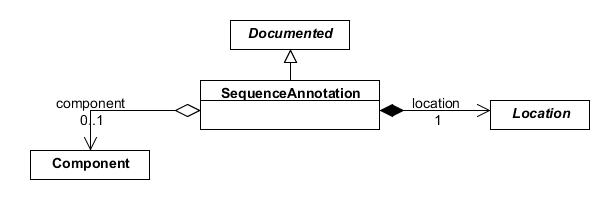
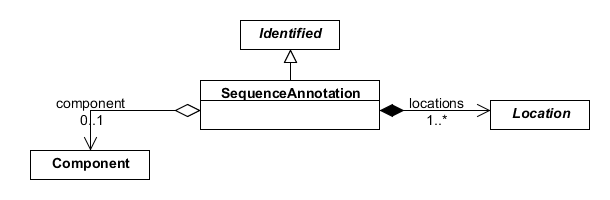
Update on Overleaf.

Changed region(s): [[0.3738, 0.09, 0.5607, 0.27], [0.6541, 0.48, 0.7787, 0.54], [0.6852, 0.57, 0.7475, 0.63]]

diff --git a/model.tex b/model.tex
@@ -1,6 +1,9 @@
 % -----------------------------------------------------------------------------
 \section{SBOL Data Model}
 % -----------------------------------------------------------------------------
+
+\Ctodo{All captions need full explanations.}
+
 In this section, we describe the types of biological design data that can belong to an SBOL document and the relationships between these data types. The SBOL data model is specified using Unified Modeling Language (UML) 2.0 diagrams \href{http://www.omg.org/spec/UML/2.0/}{(OMG 2005)}. Subsections \ref{sec:umldiagrams}, \ref{sec:nameconventions}, \ref{sec:datatypes} review the basics of UML diagrams and explain the naming conventions and generic data types used in this specification. The remaining sections then describe the SBOL data model in detail. Complete SBOL examples and best practices when using the standard can be found in \ref{sec:examples} and \ref{sec:bestpractices}, respectively. 
 
 \subsection{Understanding the UML Diagrams}
@@ -111,28 +114,6 @@ If the \sbol{version} property is used, then it is RECOMMENDED that version numb
 This convention represents versions as sequences of numbers and qualifiers separated by the characters {\tt .} and {\tt -} and compared in lexicographical order (for example, 1 < 1.3.1 < 2.0-beta).
 For a full explanation, see the linked resources.
 
-\subsubsection*{Serialization}
-
-No complete serialization is defined for \sbol{Identified}, since this
-class is only used indirectly through its child classes.  Any such
-child class, however, has the following form for serializing
-properties inherited from \sbol{Identified}, where CLASS\_NAME is
-replaced by the name of the class:
-
-\Ctodo{Need to fill in template and example}
-
-\subsection{Documented}
-\label{sec:Documented}
-The \sbol{Documented} abstract class is inherited by the classes of SBOL objects that can contain human-readable properties, such as name and description. This class extends \sbol{Identified} with two additional data properties: \sbol{name}, and \sbol{description} (\ref{uml:documented}). 
-
-\begin{figure}[ht]
-\begin{center}
-\includegraphics[scale=0.6]{uml/documented}
-\caption[]{The \sbol{Documented} abstract class.}
-\label{uml:documented}
-\end{center}
-\end{figure}
-
 \subsubsection*{The \sbolheading{name} property}
 \label{sec:name}
 
@@ -145,18 +126,40 @@ It is RECOMMENDED that software tools give users the ability to switch perspecti
 
 \subsubsection*{The \sbolheading{description} property}
 \label{sec:description}
-The \sbol{description} property is OPTIONAL and has a data type of \external{String}. This property is intended to contain a more thorough description of a \sbol{Documented} object.
 
+The \sbol{description} property is OPTIONAL and has a data type of \external{String}. This property is intended to contain a more thorough description of a \sbol{Documented} object.
 
 \subsubsection*{Serialization}
 
-No complete serialization is defined for \sbol{Documented}, since this
+No complete serialization is defined for \sbol{Identified}, since this
 class is only used indirectly through its child classes.  Any such
 child class, however, has the following form for serializing
-properties inherited from \sbol{Documented}, where CLASS\_NAME is
+properties inherited from \sbol{Identified}, where CLASS\_NAME is
 replaced by the name of the class:
 
 \Ctodo{Need to fill in template and example}
+
+% \subsection{Documented}
+% \label{sec:Documented}
+% The \sbol{Documented} abstract class is inherited by the classes of SBOL objects that can contain human-readable properties, such as name and description. This class extends \sbol{Identified} with two additional data properties: \sbol{name}, and \sbol{description} (\ref{uml:documented}). 
+
+% \begin{figure}[ht]
+% \begin{center}
+% \includegraphics[scale=0.6]{uml/documented}
+% \caption[]{The \sbol{Documented} abstract class.}
+% \label{uml:documented}
+% \end{center}
+% \end{figure}
+
+% \subsubsection*{Serialization}
+
+% No complete serialization is defined for \sbol{Documented}, since this
+% class is only used indirectly through its child classes.  Any such
+% child class, however, has the following form for serializing
+% properties inherited from \sbol{Documented}, where CLASS\_NAME is
+% replaced by the name of the class:
+
+% \Ctodo{Need to fill in template and example}
 
 \subsection {TopLevel}
 \label{sec:TopLevel}
@@ -1246,6 +1249,8 @@ In particular, three models are supported for connecting the SBOL model with oth
 
 \subsubsection{Annotating SBOL objects}
 
+\Ctodo{CJM: will edit this to match the library}
+
 \LDtodo{URI: plain or courier?}
 
 Each \sbol{Identified} object may have a number of annotations in the form of name/value property pairs. 
@@ -1265,9 +1270,9 @@ These custom \sbol{Identified} entities can further be annotated with the scheme
 
 \Ctodo{CJM: I think the link from AnnotationValue from Identified should be removed.  Instead, there should be a new object that inherits from AnnotationValue called "ListOfAnnotations" which has properties nestedQName : QName, nestedURI : URI, and a 0..* annotations link to the Annotation class.  I think we should also change the type of name in the Annotation class to QName.}
 
-\Dtodo{I think this should actually be: add any object here of your own custom class (which MUST NOT use the SBOL namespace), not ``make chains of identified''}
-\Dtodo{Is this figure how the annotations are actually handled in libSBOLj?}
-\Dtodo{Consider putting Identified, uRI, and Literal on the bottom so that inheritance arrows point in the same direction as they do in other diagrams. Another consideration for maintaing consistency with the other diagrams is to add arrow heads to the opposite ends of the black diamond relations. - Nic}
+\Ctodo{I think this should actually be: add any object here of your own custom class (which MUST NOT use the SBOL namespace), not ``make chains of identified''}
+\Ctodo{Is this figure how the annotations are actually handled in libSBOLj?}
+\Ctodo{Consider putting Identified, uRI, and Literal on the bottom so that inheritance arrows point in the same direction as they do in other diagrams. Another consideration for maintaing consistency with the other diagrams is to add arrow heads to the opposite ends of the black diamond relations. - Nic}
 
 Each annotation is serialised as an RDF subject-property-object triplet in which the subject is the SBOL object being annotated, the property is the annotation name, and the object is the annotation value. Simple values URIs are serialised as RDF literals, and URI values are represented with the \external{\path{http://www.w3.org/1999/02/22-rdf-syntax-ns#resource}} RDF property. If the annotation value is another complex object then the object is embedded as an RDF resource, which can further be annotated similarly.
 \Dtodo{If we allow URI reference of a custom object stored, then update this paragraph}
